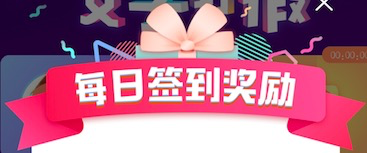
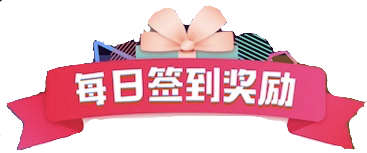
排行榜使用测试数据调试页面。签到页修改样式。

diff --git a/pages/rank/rank.js b/pages/rank/rank.js
@@ -17,6 +17,53 @@ Page({
     Category: '',
     Quiz: '',
     Options: [],
+    data: [{ "Msg": "请求成功", "Code": "1", "Name": "测试", "level": "1020", "icon": "/assets/imgs/face.svg", "page": "0", "RId": "200111"},
+      { "Msg": "请求成功", "Code": "1", "Name": "测试2", "level": "100", "icon": "/assets/imgs/face.svg", "page": "0", "RId": "200111" },
+      { "Msg": "请求成功", "Code": "1", "Name": "测试", "level": "1040", "icon": "/assets/imgs/face.svg", "page": "0", "RId": "200111" },
+      { "Msg": "请求成功", "Code": "1", "Name": "测试321", "level": "100", "icon": "/assets/imgs/face.svg", "page": "0", "RId": "200111" },
+      { "Msg": "请求成功", "Code": "1", "Name": "测试", "level": "1040", "icon": "/assets/imgs/face.svg", "page": "0", "RId": "200111" },
+      { "Msg": "请求成功", "Code": "1", "Name": "测试123", "level": "100", "icon": "/assets/imgs/face.svg", "page": "0", "RId": "200111" },
+      { "Msg": "请求成功", "Code": "1", "Name": "测试", "level": "100", "icon": "/assets/imgs/face.svg", "page": "0", "RId": "200111" },
+      { "Msg": "请求成功", "Code": "1", "Name": "测试1233", "level": "1030", "icon": "/assets/imgs/face.svg", "page": "0", "RId": "200111" },
+      { "Msg": "请求成功", "Code": "1", "Name": "测试ewf", "level": "100", "icon": "/assets/imgs/face.svg", "page": "0", "RId": "200111" },
+      { "Msg": "请求成功", "Code": "1", "Name": "测试", "level": "1020", "icon": "/assets/imgs/face.svg", "page": "0", "RId": "200111" },
+      { "Msg": "请求成功", "Code": "1", "Name": "测试ewf", "level": "100", "icon": "/assets/imgs/face.svg", "page": "0", "RId": "200111" },
+      { "Msg": "请求成功", "Code": "1", "Name": "测试", "level": "100", "icon": "/assets/imgs/face.svg", "page": "0", "RId": "200111" },
+      { "Msg": "请求成功", "Code": "1", "Name": "测试", "level": "100", "icon": "/assets/imgs/face.svg", "page": "0", "RId": "200111" },
+      { "Msg": "请求成功", "Code": "1", "Name": "测试", "level": "100", "icon": "/assets/imgs/face.svg", "page": "0", "RId": "200111" },
+      { "Msg": "请求成功", "Code": "1", "Name": "测试wef", "level": "100", "icon": "/assets/imgs/face.svg", "page": "0", "RId": "200111" },
+      { "Msg": "请求成功", "Code": "1", "Name": "测试", "level": "10230", "icon": "/assets/imgs/face.svg", "page": "0", "RId": "200111" },
+      { "Msg": "请求成功", "Code": "1", "Name": "测试", "level": "100", "icon": "/assets/imgs/face.svg", "page": "0", "RId": "200111" },
+      { "Msg": "请求成功", "Code": "1", "Name": "测试sfa", "level": "100", "icon": "/assets/imgs/face.svg", "page": "0", "RId": "200111" },
+      { "Msg": "请求成功", "Code": "1", "Name": "测试", "level": "103240", "icon": "/assets/imgs/face.svg", "page": "0", "RId": "200111" },
+      { "Msg": "请求成功", "Code": "1", "Name": "测试", "level": "100", "icon": "/assets/imgs/face.svg", "page": "0", "RId": "200111" },
+      { "Msg": "请求成功", "Code": "1", "Name": "测试", "level": "102340", "icon": "/assets/imgs/face.svg", "page": "0", "RId": "200111" },
+      { "Msg": "请求成功", "Code": "1", "Name": "测试", "level": "100", "icon": "/assets/imgs/face.svg", "page": "0", "RId": "200111" },
+      { "Msg": "请求成功", "Code": "1", "Name": "测试", "level": "10220", "icon": "/assets/imgs/face.svg", "page": "0", "RId": "200111" },
+      { "Msg": "请求成功", "Code": "1", "Name": "测试", "level": "10330", "icon": "/assets/imgs/face.svg", "page": "0", "RId": "200111" },
+      { "Msg": "请求成功", "Code": "1", "Name": "测试asfasf", "level": "100", "icon": "/assets/imgs/face.svg", "page": "0", "RId": "200111" },
+      { "Msg": "请求成功", "Code": "1", "Name": "测试", "level": "100", "icon": "/assets/imgs/face.svg", "page": "0", "RId": "200111" },
+      { "Msg": "请求成功", "Code": "1", "Name": "测试cxvxv", "level": "10440", "icon": "/assets/imgs/face.svg", "page": "0", "RId": "200111" },
+      { "Msg": "请求成功", "Code": "1", "Name": "测试", "level": "100", "icon": "/assets/imgs/face.svg", "page": "0", "RId": "200111" },
+      { "Msg": "请求成功", "Code": "1", "Name": "测试wef", "level": "10340", "icon": "/assets/imgs/face.svg", "page": "0", "RId": "200111" },
+      { "Msg": "请求成功", "Code": "1", "Name": "测试", "level": "100", "icon": "/assets/imgs/face.svg", "page": "0", "RId": "200111" },
+      { "Msg": "请求成功", "Code": "1", "Name": "测试", "level": "100", "icon": "/assets/imgs/face.svg", "page": "0", "RId": "200111" },
+      { "Msg": "请求成功", "Code": "1", "Name": "测试", "level": "100", "icon": "/assets/imgs/face.svg", "page": "0", "RId": "200111" },
+      { "Msg": "请求成功", "Code": "1", "Name": "测试", "level": "10420", "icon": "/assets/imgs/face.svg", "page": "0", "RId": "200111" },
+      { "Msg": "请求成功", "Code": "1", "Name": "测试", "level": "100", "icon": "/assets/imgs/face.svg", "page": "0", "RId": "200111" },
+      { "Msg": "请求成功", "Code": "1", "Name": "测试", "level": "10430", "icon": "/assets/imgs/face.svg", "page": "0", "RId": "200111" },
+      { "Msg": "请求成功", "Code": "1", "Name": "测试", "level": "100", "icon": "/assets/imgs/face.svg", "page": "0", "RId": "200111" },
+      { "Msg": "请求成功", "Code": "1", "Name": "测试ewffc", "level": "100", "icon": "/assets/imgs/face.svg", "page": "0", "RId": "200111" },
+      { "Msg": "请求成功", "Code": "1", "Name": "测试", "level": "10530", "icon": "/assets/imgs/face.svg", "page": "0", "RId": "200111" },
+      { "Msg": "请求成功", "Code": "1", "Name": "测试fewefw", "level": "100", "icon": "/assets/imgs/face.svg", "page": "0", "RId": "200111" },
+      { "Msg": "请求成功", "Code": "1", "Name": "测试", "level": "10320", "icon": "/assets/imgs/face.svg", "page": "0", "RId": "200111" },
+      { "Msg": "请求成功", "Code": "1", "Name": "测试csa", "level": "100", "icon": "/assets/imgs/face.svg", "page": "0", "RId": "200111" },
+      { "Msg": "请求成功", "Code": "1", "Name": "测试", "level": "101230", "icon": "/assets/imgs/face.svg", "page": "0", "RId": "200111" },
+      { "Msg": "请求成功", "Code": "1", "Name": "测试", "level": "100", "icon": "/assets/imgs/face.svg", "page": "0", "RId": "200111" },
+      { "Msg": "请求成功", "Code": "1", "Name": "测试", "level": "100", "icon": "/assets/imgs/face.svg", "page": "0", "RId": "200111" },
+      { "Msg": "请求成功", "Code": "1", "Name": "测试", "level": "100", "icon": "/assets/imgs/face.svg", "page": "0", "RId": "200111" },
+      { "Msg": "请求成功", "Code": "1", "Name": "测试wercv", "level": "100", "icon": "/assets/imgs/face.svg", "page": "0", "RId": "200111" }
+      ],
   },
 
   /**

diff --git a/pages/entry/entry.js b/pages/entry/entry.js
@@ -1,7 +1,9 @@
 //index.js
 const app = getApp();
 
-function timing(that) {
+// 计时
+function timing(that) 
+{
   var seconds = that.data.seconds
   if (seconds > 3600) {
     that.setData({
@@ -26,7 +28,9 @@ function timing(that) {
     , 1000)
   formatSeconds(that)
 }
-function formatSeconds(that) {
+// 格式化秒
+function formatSeconds(that) 
+{
   var mins = 0, hours = 0, seconds = that.data.seconds, time = ''
   if (seconds < 60) {
 
@@ -43,66 +47,87 @@ function formatSeconds(that) {
     time: formatTime(hours) + ':' + formatTime(mins) + ':' + formatTime(seconds),
   });
 }
-function formatTime(num) {
+// 格式化时间
+function formatTime(num) 
+{
   if (num < 10)
     return '0' + num
   else
     return num + ''
 }
+// 关闭签到下面，便于重用
+function closeSignInPage(that) 
+{
+  var animation = wx.createAnimation({
+    duration: 500,
+    timingFunction: 'ease-in-out',
+  });
+  animation.opacity(0).scale3d(0,0,0).step({ duration: 1000 });
+  that.setData({
+    closeAnimation: animation,
+  })
+
+  setTimeout(function () {
+    that.setData({
+      signInToday: false
+    });
+  }, 1000);
+}
 
 Page({
 	data:
   {
+    // 是否已经获得用户信息
     hasUserInfo: false,
     seconds: 0,
+    // 计时显示
     time: '00:00:00',
+    // 用户获得的金币数
     coin: 0,
+    // 今天是否已经签到
     signInToday:true,
-    signInPreDays:[{"day":"第1天", "isSignIn":"true", "reward":"+30"},
+    // 签到记录初始化
+    signInPreDays:[{"day":"第1天", "isSignIn":"false", "reward":"+30"},
       { "day": "第2天", "isSignIn": "false", "reward": "+40" },
       { "day": "第3天", "isSignIn": "false", "reward": "+50" },
       { "day": "第4天", "isSignIn": "false", "reward": "+60" },
       { "day": "第5天", "isSignIn": "false", "reward": "+70" },
       { "day": "第6天", "isSignIn": "false", "reward": "+80" },
       { "day": "第7天", "isSignIn": "false", "reward": "+100" }],
+    // 7天签到的背景色
     colos: ["#b765e2", "#b765e2", "#b765e2", "#fe2380", "#8200bd", "#8200bd", "#8200bd"],
+    // 签到的动画数组
     animationCloudData: [{}, {}, {}, {}, {}, {}, {}, {}],
+    // 关闭签到页面的动画
+    closeAnimation:{},
 	},
 
 	onLoad(opt) 
   {
+    // 开始计时
     timing(this);
+    // 初始化是否已经登录
     this.setData({
       hasLogin: app.globalData.hasLogin
     })
+
 	},
 
   onReady()
   {
+    // 获取用户信息
     this.getUserMessage();
+    // 遍历签到状态，给需要签到的那一天加入动画
+    for (var i = 0; i < 7; i++)
+    {
+      if (this.data.signInPreDays[i]["isSignIn"] == "true")
+      {
+        this.addAnimationToDay(i);
+        break;
+      }
+    }
   },
-  tapDay0: function ()
-  {
-    this.addAnimationToDay(0);
-  },
-  tapDay1: function () {
-    this.addAnimationToDay(1);
-  },
-  tapDay2: function () {
-    this.addAnimationToDay(2);
-  },
-  tapDay3: function () {
-    this.addAnimationToDay(3);
-  },
-  tapDay4: function () {
-    this.addAnimationToDay(4);
-  },
-  tapDay5: function () {
-    this.addAnimationToDay(5);
-  },
-  tapDay6: function () {
-    this.addAnimationToDay(6);
-  },
+  // 给日期视图添加动画
   addAnimationToDay: function(index)
   {
     var that = this;
@@ -119,12 +144,12 @@ Page({
       })
     }, 500)
   },
-  
+  // 签到
   signIn: function()
   {
     this.closeSignInView();
   },
-
+  // 登录
   login: function () 
   {
     var that = this
@@ -139,13 +164,14 @@ Page({
       }
     })
   },
-
+  // 获取用户信息，绑定方法
   getUserInfo: function () 
   {
     this.getUserMessage();
   },
-
-  getUserMessage() {
+  // 获取用户信息，内部方法，方便重用
+  getUserMessage() 
+  {
     var that = this
 
     if (app.globalData.hasLogin === false) {
@@ -169,32 +195,13 @@ Page({
       })
     }
   },
-  
-  timeCount: function()
-  {
-
-  },
-
-	onShow() 
-  {
-    //当信道连接或者重连了时，关闭已连接的信道
-	//	this.closeTunnel()
-	},
-
+  // 前往游戏界面
 	gotoFighting() 
   {
 		wx.navigateTo({
       url: '../game/game_index'  
 		})
 	},
-
-	gotoFriends() 
-  {
-		wx.navigateTo({
-			url: '../friends_sort/friends_sort'
-		})
-	},
-
   //前往排行榜页面
   gotoLeaderboard: function()
   {
@@ -202,33 +209,19 @@ Page({
       url: '../rank/rank'
     })
   },
-
-	closeTunnel() 
+  // 用户点击右上角分享
+  onShareAppMessage: function () 
   {
-		//当信道连接或者重连了时，关闭已连接的信道
-		if (app.appData.tunnelStatus == 'connect' ||
-        app.appData.tunnelStatus == 'reconnect') 
-    {
-			app.tunnel.close();
-		}
-	},
-
-  /**
-   * 用户点击右上角分享
-   */
-  onShareAppMessage: function () {
     return {
       title: 'IQ@高智商的你',
       path: '/pages/entry/entry',
       imageUrl: 'http://i0.hdslb.com/bfs/archive/2722a167806e5e732939ec3d847a9e9ac58e79e0.jpg'
     }
   },
-
+  // 关闭签到页面，绑定方法
   closeSignInView: function() 
   {
-    this.setData({
-      signInToday: false
-    });
+    closeSignInPage(this);
   }
 
 })
